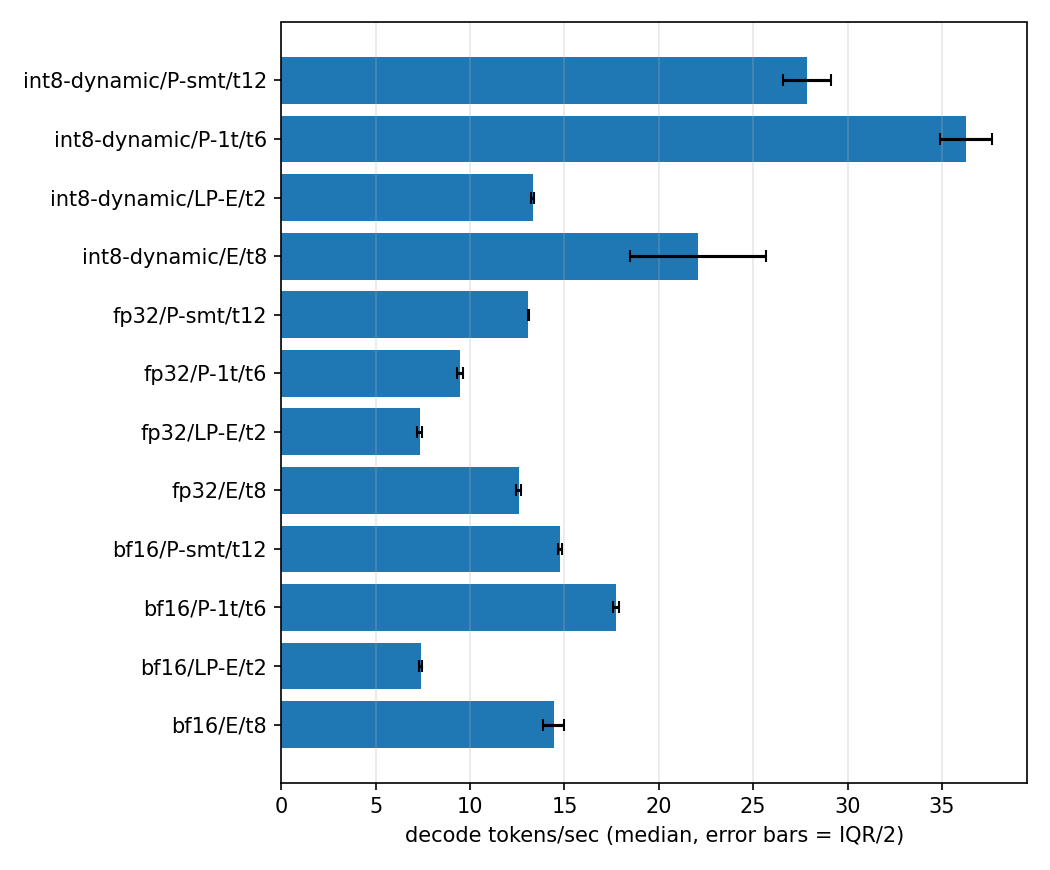
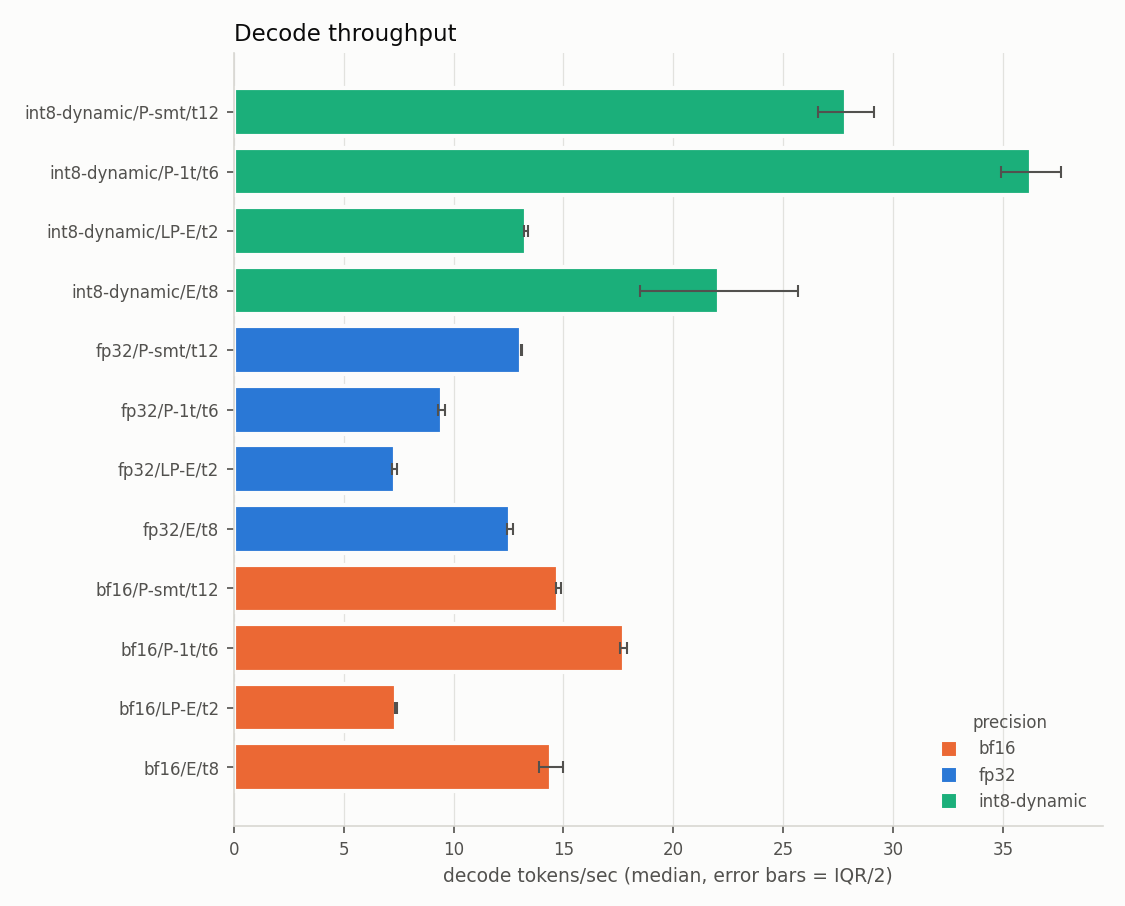
Encode scatter by precision and placement instead of labelling every point

diff --git a/analyze.py b/analyze.py
@@ -34,6 +34,24 @@ HERE = Path(__file__).resolve().parent
 DEFAULT_DOMAIN = "package-0"
 ENERGY_DOMAIN = DEFAULT_DOMAIN
 
+# Validated default categorical palette, light mode. Only the first three slots
+# clear the all-pairs colour-vision-deficiency floors, which is what a scatter
+# needs -- so colour carries the 3-level variable (precision) and marker shape
+# carries the 4-level one (core placement). Identity is therefore never
+# colour-alone, and the palette is never extended past its validated cap.
+SURFACE = "#fcfcfb"
+INK = "#0b0b0b"
+INK_MUTED = "#52514e"
+GRID = "#d8d7d2"
+PRECISION_COLOR = {
+    "fp32": "#2a78d6",           # slot 1, blue
+    "bf16": "#eb6834",           # slot 2, orange
+    "int8-dynamic": "#1baf7a",   # slot 3, aqua
+}
+PLACEMENT_MARKER = {
+    "P-1t": "o", "P-smt": "s", "E": "^", "LP-E": "D", "all": "P",
+}
+
 
 def load(path: Path) -> tuple[dict, list[dict]]:
     meta: dict = {}
@@ -201,44 +219,125 @@ def make_plots(summary: list[dict], loss: dict[str, float],
     written = []
 
     # --- 1. cost vs quality, frontier highlighted ---
-    pts = [(s["config"],
-            s["joules_per_token_med"] if energy else s["s_per_token_med"],
+    pts = [(s, s["joules_per_token_med"] if energy else s["s_per_token_med"],
             loss.get(s["config"]))
            for s in summary]
-    pts = [(c, x, q) for c, x, q in pts if x is not None and q is not None]
+    pts = [(s, x, q) for s, x, q in pts if x is not None and q is not None]
     if pts:
-        fig, ax = plt.subplots(figsize=(7, 5))
-        for c, x, q in pts:
-            on = c in frontier
-            ax.scatter(x, q * 100, s=90 if on else 45,
-                       marker="o" if on else "x",
-                       zorder=3 if on else 2,
-                       label="_nolegend_")
-            ax.annotate(c.replace("cpu/", ""), (x, q * 100),
-                        fontsize=7, xytext=(4, 4), textcoords="offset points")
-        fr = sorted([(x, q * 100) for c, x, q in pts if c in frontier])
+        fig, ax = plt.subplots(figsize=(7.5, 5.2))
+        fig.patch.set_facecolor(SURFACE)
+        ax.set_facecolor(SURFACE)
+
+        for s, x, q in pts:
+            on = s["config"] in frontier
+            ax.scatter(x, q * 100,
+                       s=170 if on else 95,
+                       c=PRECISION_COLOR.get(s["precision"], INK_MUTED),
+                       marker=PLACEMENT_MARKER.get(s["placement"], "o"),
+                       # 2px surface ring so overlapping marks stay separable
+                       edgecolors=SURFACE, linewidths=2.0,
+                       zorder=4 if on else 3)
+
+        fr = sorted((x, q * 100) for s, x, q in pts if s["config"] in frontier)
         if len(fr) > 1:
-            ax.plot([p[0] for p in fr], [p[1] for p in fr],
-                    linestyle="--", linewidth=1, zorder=1)
+            ax.plot([a for a, _ in fr], [b for _, b in fr], linestyle="--",
+                    linewidth=1.2, color=GRID, zorder=1)
+
+        # Label only the frontier -- the points the reader has to act on. A value
+        # beside all twelve is what made this plot unreadable before.
+        for s, x, q in pts:
+            if s["config"] in frontier:
+                ax.annotate(f"{s['precision']} / {s['placement']}",
+                            (x, q * 100), fontsize=8, color=INK,
+                            xytext=(9, 4), textcoords="offset points",
+                            zorder=5)
+
+        # Quality loss spans 0% to ~900%; symlog keeps the near-zero cluster
+        # readable without hiding the collapse. Linear below 1%, log above.
+        # q is a fraction; the axis is plotted in percent. Compare in percent.
+        if max(q for _, _, q in pts) * 100 > 20:
+            ax.set_yscale("symlog", linthresh=1.0)
+            ax.set_ylabel("quality loss vs best\n(% perplexity increase, symlog)",
+                          color=INK_MUTED, fontsize=9)
+        else:
+            ax.set_ylabel("quality loss vs best (% perplexity increase)",
+                          color=INK_MUTED, fontsize=9)
         ax.set_xlabel("joules per generated token" if energy
-                      else "seconds per generated token")
-        ax.set_ylabel("quality loss vs best (% perplexity increase)")
-        ax.set_title("Cost vs quality" + ("" if energy else "  (energy unmeasured)"))
-        ax.grid(alpha=0.3)
+                      else "seconds per generated token",
+                      color=INK_MUTED, fontsize=9)
+        ax.set_title("Cost vs quality — labelled points are non-dominated"
+                     + ("" if energy else "   (energy unmeasured)"),
+                     color=INK, fontsize=11, loc="left")
+
+        precisions = sorted({s["precision"] for s, _, _ in pts})
+        placements = sorted({s["placement"] for s, _, _ in pts})
+        col_handles = [plt.Line2D([], [], marker="o", linestyle="",
+                                  markersize=8, markeredgecolor=SURFACE,
+                                  markerfacecolor=PRECISION_COLOR.get(p, INK_MUTED),
+                                  label=p) for p in precisions]
+        mk_handles = [plt.Line2D([], [], marker=PLACEMENT_MARKER.get(p, "o"),
+                                 linestyle="", markersize=8, color=INK_MUTED,
+                                 markeredgecolor=SURFACE, label=p)
+                      for p in placements]
+        leg1 = ax.legend(handles=col_handles, title="precision", loc="upper left",
+                         bbox_to_anchor=(1.02, 1.0), frameon=False, fontsize=8,
+                         title_fontsize=8, labelcolor=INK_MUTED)
+        leg1.get_title().set_color(INK_MUTED)
+        ax.add_artist(leg1)
+        leg2 = ax.legend(handles=mk_handles, title="core placement",
+                         loc="upper left", bbox_to_anchor=(1.02, 0.55),
+                         frameon=False, fontsize=8, title_fontsize=8,
+                         labelcolor=INK_MUTED)
+        leg2.get_title().set_color(INK_MUTED)
+
+        ax.grid(color=GRID, linewidth=0.6, alpha=0.7)
+        ax.set_axisbelow(True)
+        for spine in ("top", "right"):
+            ax.spines[spine].set_visible(False)
+        for spine in ("left", "bottom"):
+            ax.spines[spine].set_color(GRID)
+        ax.tick_params(colors=INK_MUTED, labelsize=8)
+
         p = outdir / "pareto.png"
-        fig.tight_layout(); fig.savefig(p, dpi=150); plt.close(fig)
+        fig.tight_layout(); fig.savefig(p, dpi=150, facecolor=SURFACE)
+        plt.close(fig)
         written.append(p)
 
     # --- 2. throughput by configuration ---
-    fig, ax = plt.subplots(figsize=(7, max(3, 0.4 * len(summary) + 1)))
+    fig, ax = plt.subplots(figsize=(7.5, max(3, 0.42 * len(summary) + 1)))
+    fig.patch.set_facecolor(SURFACE)
+    ax.set_facecolor(SURFACE)
     labels = [s["config"].replace("cpu/", "") for s in summary]
     vals = [s["decode_tok_per_s_med"] for s in summary]
     errs = [s["decode_tok_per_s_iqr"] / 2 for s in summary]
-    ax.barh(labels, vals, xerr=errs, capsize=3)
-    ax.set_xlabel("decode tokens/sec (median, error bars = IQR/2)")
-    ax.grid(axis="x", alpha=0.3)
+    colors = [PRECISION_COLOR.get(s["precision"], INK_MUTED) for s in summary]
+    ax.barh(labels, vals, xerr=errs, capsize=3, color=colors,
+            # 2px surface gap between adjacent bars
+            edgecolor=SURFACE, linewidth=2.0,
+            error_kw={"ecolor": INK_MUTED, "elinewidth": 1})
+    ax.set_xlabel("decode tokens/sec (median, error bars = IQR/2)",
+                  color=INK_MUTED, fontsize=9)
+    ax.set_title("Decode throughput", color=INK, fontsize=11, loc="left")
+    handles = [plt.Line2D([], [], marker="s", linestyle="", markersize=8,
+                          markeredgecolor=SURFACE,
+                          markerfacecolor=PRECISION_COLOR[k], label=k)
+               for k in sorted({s["precision"] for s in summary}
+                               & set(PRECISION_COLOR))]
+    if handles:
+        leg = ax.legend(handles=handles, title="precision", frameon=False,
+                        fontsize=8, title_fontsize=8, loc="lower right",
+                        labelcolor=INK_MUTED)
+        leg.get_title().set_color(INK_MUTED)
+    ax.grid(axis="x", color=GRID, linewidth=0.6, alpha=0.7)
+    ax.set_axisbelow(True)
+    for spine in ("top", "right"):
+        ax.spines[spine].set_visible(False)
+    for spine in ("left", "bottom"):
+        ax.spines[spine].set_color(GRID)
+    ax.tick_params(colors=INK_MUTED, labelsize=8)
     p = outdir / "throughput.png"
-    fig.tight_layout(); fig.savefig(p, dpi=150); plt.close(fig)
+    fig.tight_layout(); fig.savefig(p, dpi=150, facecolor=SURFACE)
+    plt.close(fig)
     written.append(p)
 
     # --- 3. KV cache growth ---
@@ -247,17 +346,47 @@ def make_plots(summary: list[dict], loss: dict[str, float],
         if r.get("kv_bytes_by_step") and r["config"] not in series:
             series[r["config"]] = r["kv_bytes_by_step"]
     if series:
-        fig, ax = plt.subplots(figsize=(7, 4.5))
+        fig, ax = plt.subplots(figsize=(7.5, 4.5))
+        fig.patch.set_facecolor(SURFACE)
+        ax.set_facecolor(SURFACE)
+        # One line per precision: the curve depends on dtype (cache element size),
+        # not on where the threads run, so plotting all twelve would draw the same
+        # three lines four times over.
+        by_prec: dict[str, list[int]] = {}
         for cfg, ks in series.items():
+            prec = cfg.split("/")[1] if "/" in cfg else cfg
+            by_prec.setdefault(prec, ks)
+
+        # Precisions whose cache is byte-identical share one line and one legend
+        # entry. fp32 and int8-dynamic coincide because dynamic quantization only
+        # touches Linear weights -- the KV cache stays fp32 -- so drawing both
+        # would hide one series under the other and put a phantom in the legend.
+        merged: dict[tuple, list[str]] = {}
+        for prec, ks in by_prec.items():
+            merged.setdefault(tuple(ks), []).append(prec)
+        for ks, precs in merged.items():
+            precs.sort()
+            label = " = ".join(precs)
             ax.plot(range(1, len(ks) + 1), [k / 1024 for k in ks],
-                    label=cfg.replace("cpu/", ""), linewidth=1.4)
-        ax.set_xlabel("decode step")
-        ax.set_ylabel("KV cache (KiB)")
-        ax.set_title("KV cache growth during decode")
-        ax.legend(fontsize=7)
-        ax.grid(alpha=0.3)
+                    label=label, linewidth=2.0,
+                    color=PRECISION_COLOR.get(precs[0], INK_MUTED))
+        ax.set_xlabel("decode step", color=INK_MUTED, fontsize=9)
+        ax.set_ylabel("KV cache (KiB)", color=INK_MUTED, fontsize=9)
+        ax.set_title("KV cache growth during decode", color=INK, fontsize=11,
+                     loc="left")
+        leg = ax.legend(title="precision", frameon=False, fontsize=8,
+                        title_fontsize=8, labelcolor=INK_MUTED)
+        leg.get_title().set_color(INK_MUTED)
+        ax.grid(color=GRID, linewidth=0.6, alpha=0.7)
+        ax.set_axisbelow(True)
+        for spine in ("top", "right"):
+            ax.spines[spine].set_visible(False)
+        for spine in ("left", "bottom"):
+            ax.spines[spine].set_color(GRID)
+        ax.tick_params(colors=INK_MUTED, labelsize=8)
         p = outdir / "kv_growth.png"
-        fig.tight_layout(); fig.savefig(p, dpi=150); plt.close(fig)
+        fig.tight_layout(); fig.savefig(p, dpi=150, facecolor=SURFACE)
+        plt.close(fig)
         written.append(p)
 
     return written

diff --git a/FINDINGS.md b/FINDINGS.md
@@ -107,6 +107,14 @@ scheme", and testing K-quants is the obvious next experiment.
 The damage also grows with model size: the same scheme cost +228% perplexity on
 SmolLM2-135M and +926% here.
 
+**And it does not shrink the KV cache at all.** Dynamic quantization touches only
+Linear weights, so the cache stays fp32 — the measured curves for `fp32` and
+`int8-dynamic` are byte-identical, reaching 866 KiB after 24 decode steps, while
+bf16 reaches 433 KiB. Exactly half. For long-context work, where the cache rather
+than the weights dominates memory, int8-dynamic therefore offers no relief on the
+axis that matters, and bf16 offers a factor of two. That is a third independent
+reason to prefer bf16 (see `figures/kv_growth.png`).
+
 ## 4. Being on the Pareto frontier is not the same as being sensible
 
 The frontier contains `bf16/P-1t` and `int8-dynamic/P-1t`, the latter only because
@@ -185,7 +193,8 @@ a permission change mid-run cannot produce a half-measured dataset.
   placements, is untested — and is the most likely place these conclusions break.
 - **Perplexity and one needle probe** are a thin quality measure. They caught the
   int8 collapse decisively; a real evaluation suite would be better.
-- **24 tokens per generation** is short. KV cache growth is recorded but no
-  conclusion here depends on it — the one instrument that has not yet earned its
-  place.
+- **24 tokens per generation** is short. The KV cache measurement supports the
+  point in section 3 about int8 not shrinking the cache, but long-context
+  behaviour — where the cache overtakes the weights in memory footprint and the
+  energy picture may change — is not explored.
 - **No hardware performance counters**, so section 5 stays a hypothesis.
